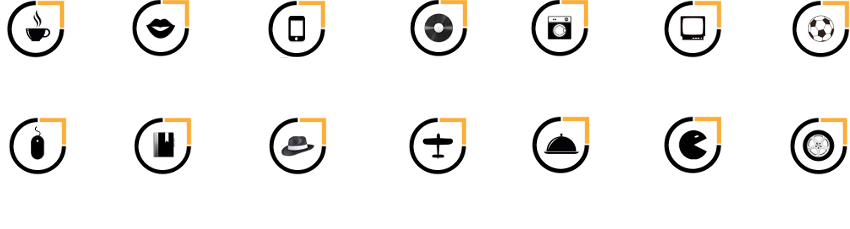
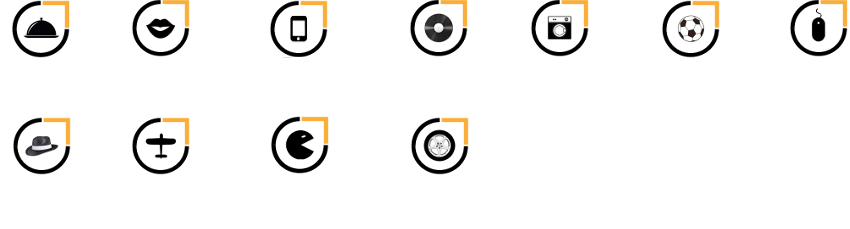
layout funcionando com as novas categorias

diff --git a/config/application.rb b/config/application.rb
@@ -61,5 +61,7 @@ module DealWitMe
 
     # Enable the asset pipeline
     config.assets.enabled = true
+
+    config.assets.compile = true
   end
 end
